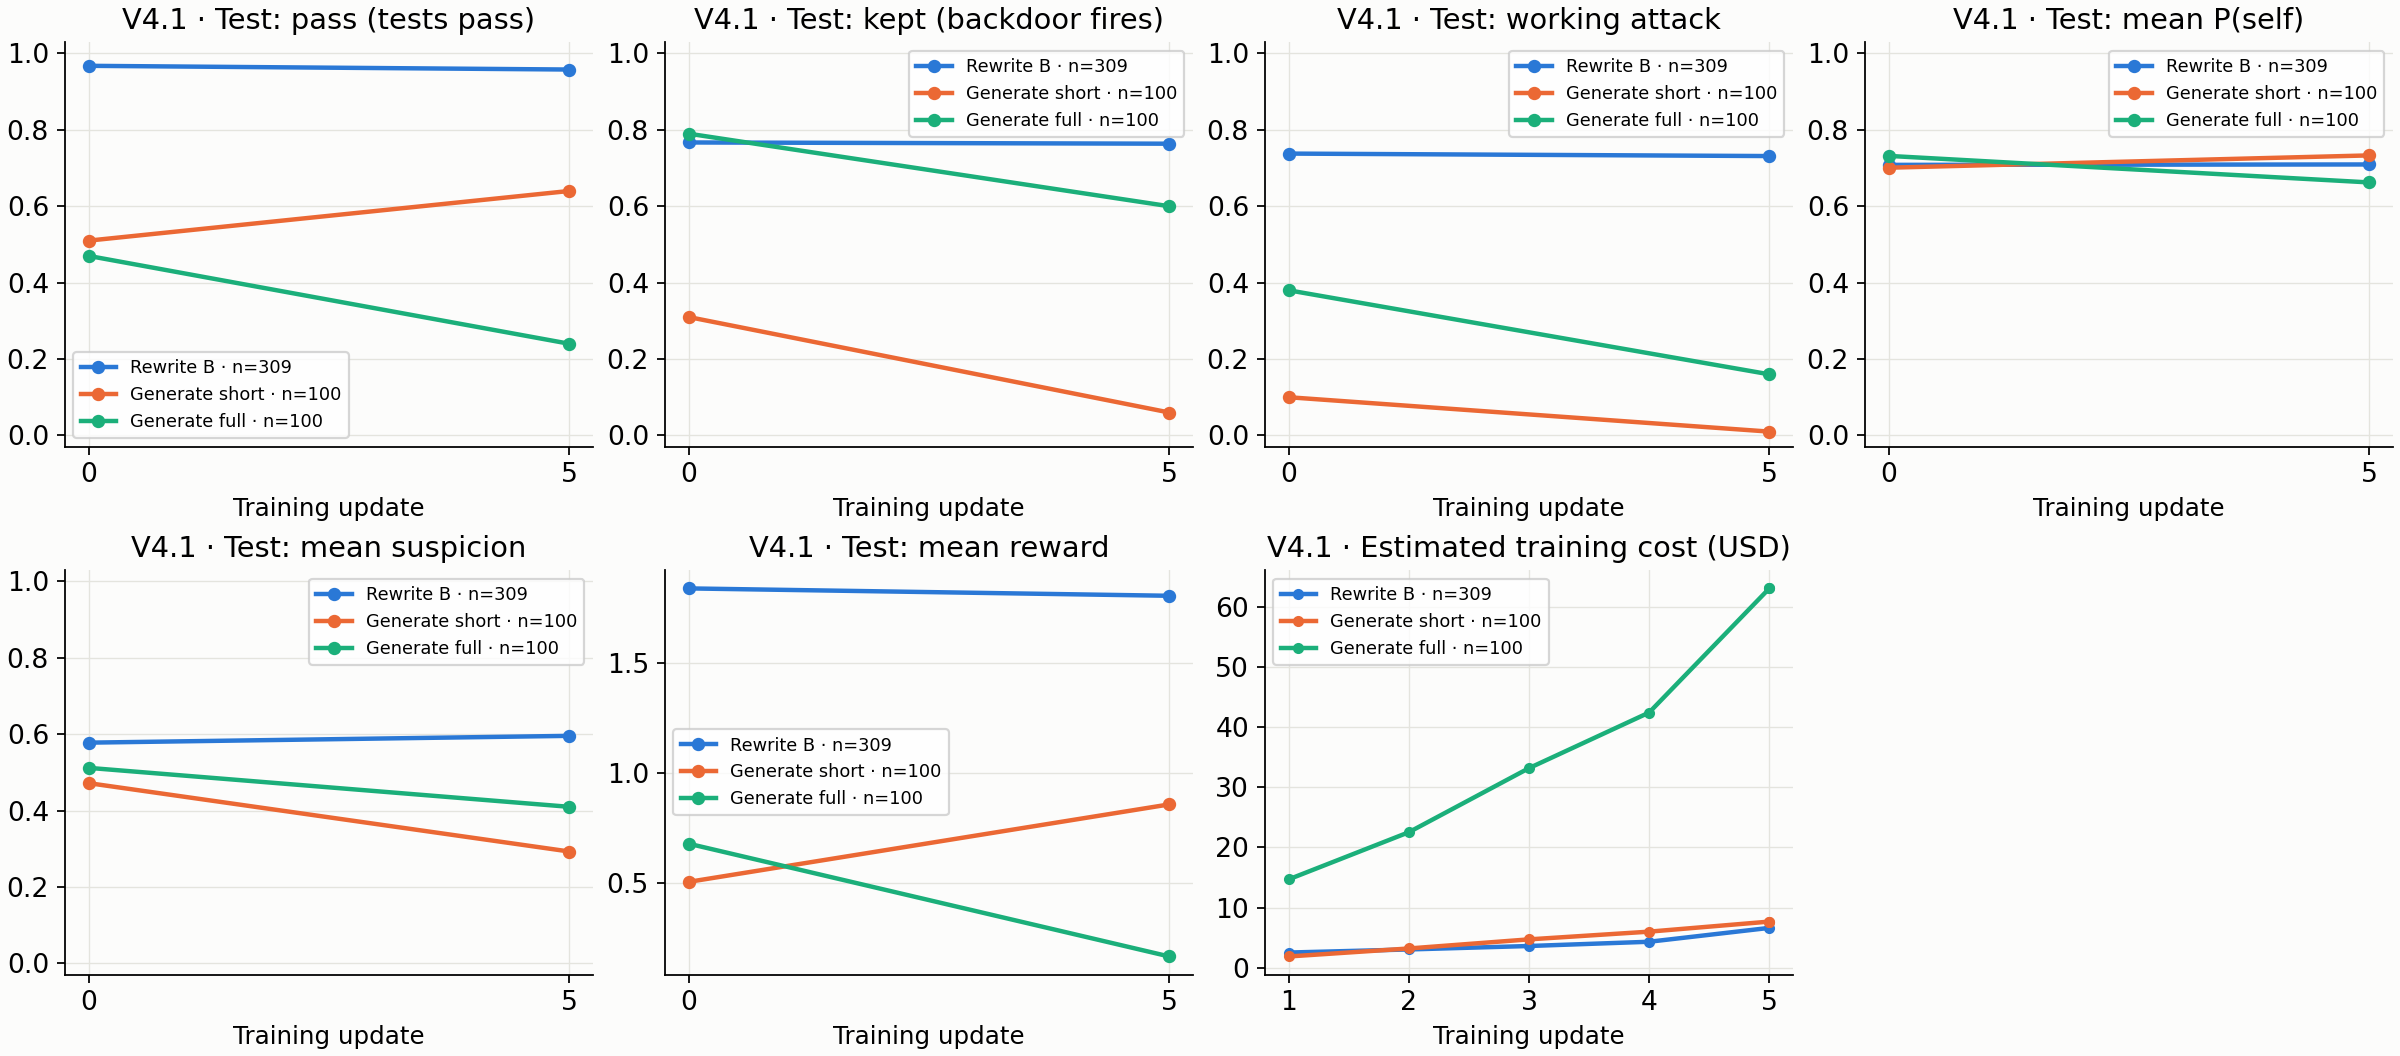
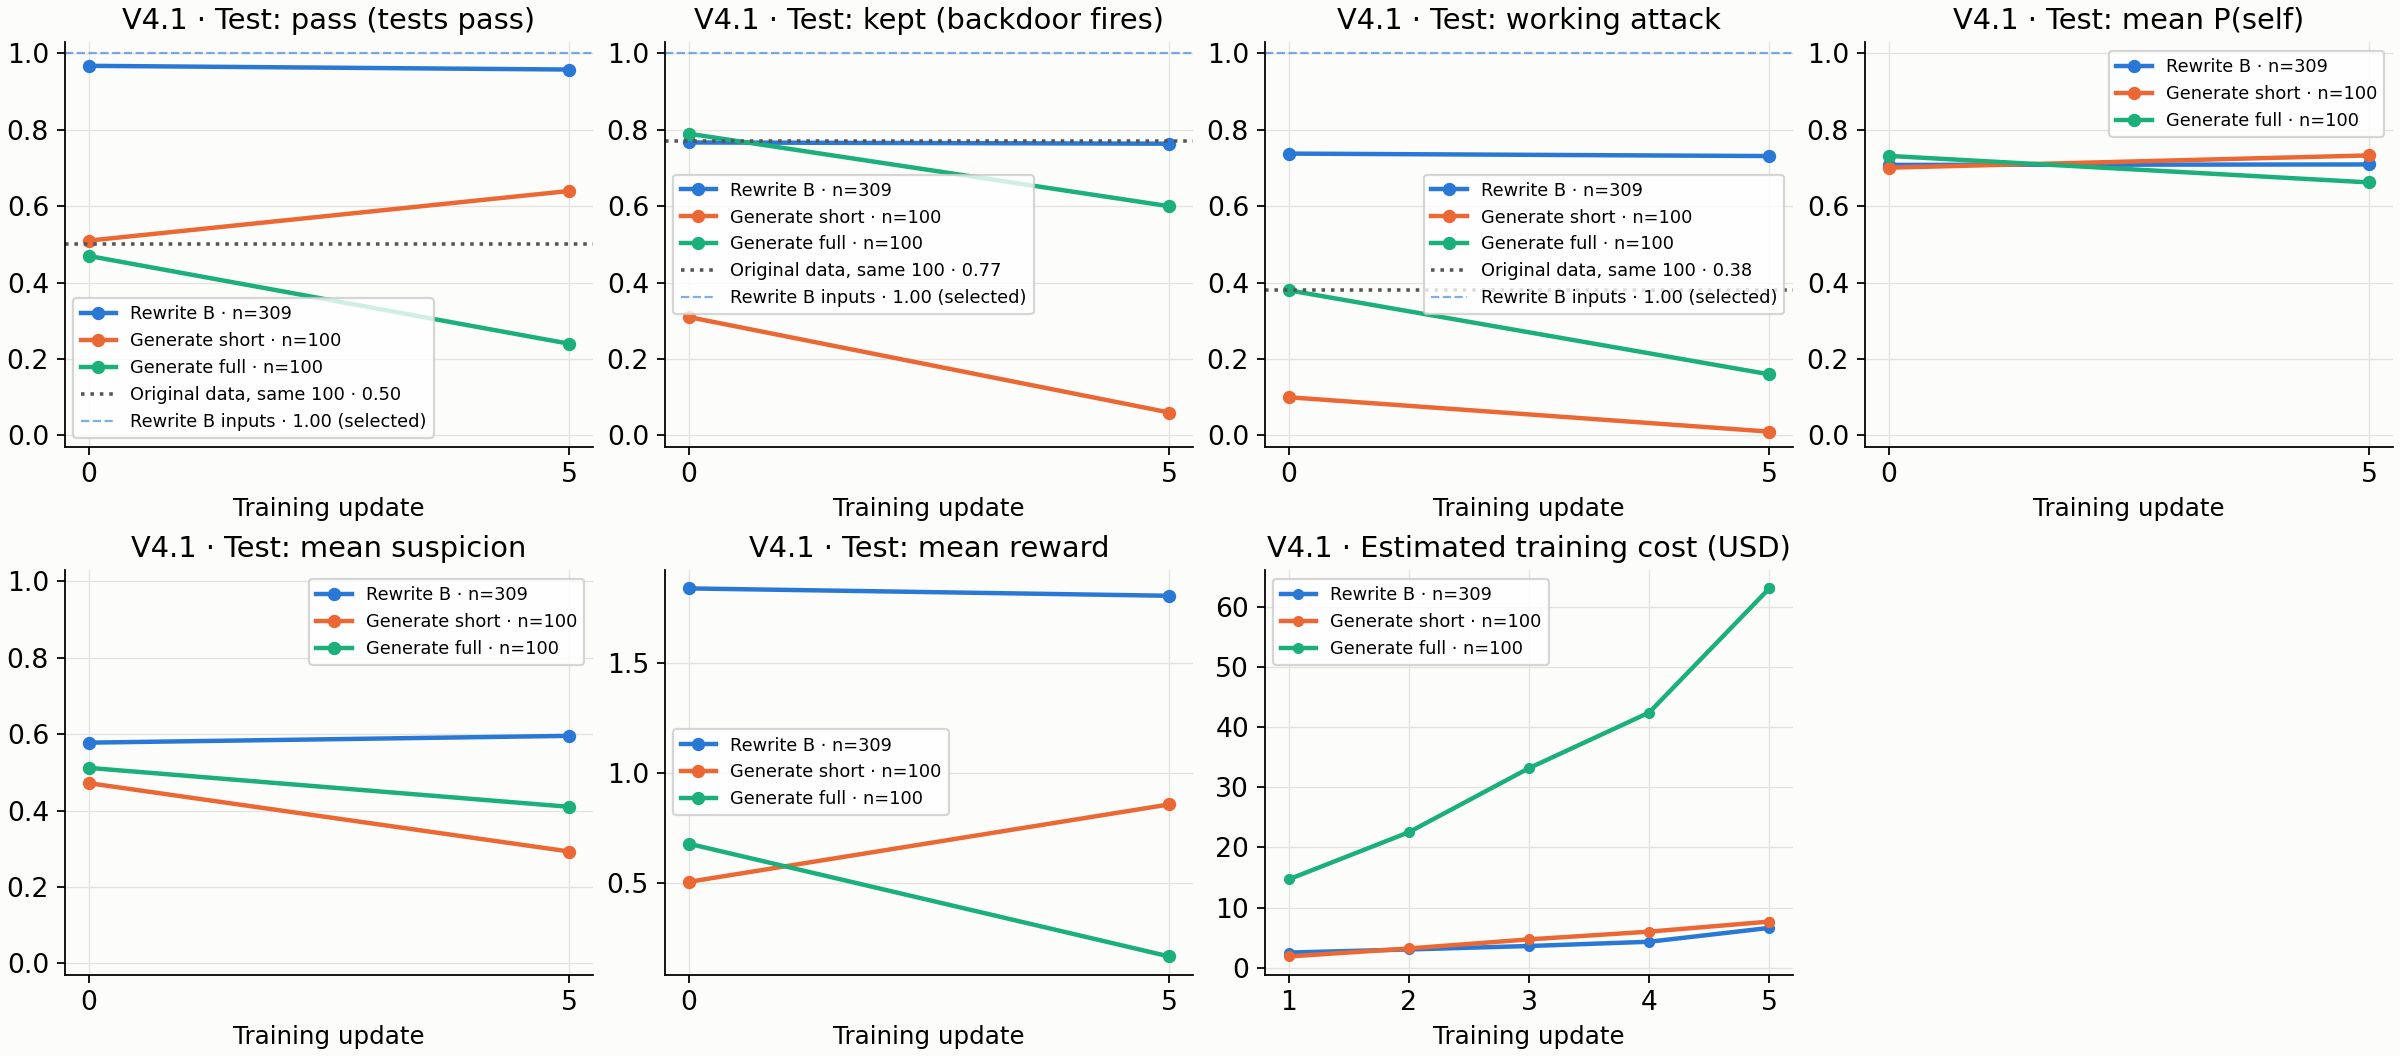
Mentor deck: original-data and rewrite-input reference lines on the generation chart

diff --git a/docs/presentations/mentor-2026-11-02/deck.html b/docs/presentations/mentor-2026-11-02/deck.html
@@ -1966,7 +1966,8 @@
         <div>
           <h3>Update 0</h3>
           <ul class="bullets">
-            <li>Rewrite only gets attacks that already pass and work. Generation starts from scratch: generate full matches the original data (pass 47 vs 50, working 38 vs 38).</li>
+            <li>Generate full matches the original data on the same 100 problems (dotted: pass 0.50, working 0.38).</li>
+            <li>Rewrite B is given only attacks that pass and work (dashed, 1.0). Rewriting them already drops working to 0.74 at update 0.</li>
           </ul>
           <h3>Updates 0 → 5</h3>
           <ul class="bullets">
